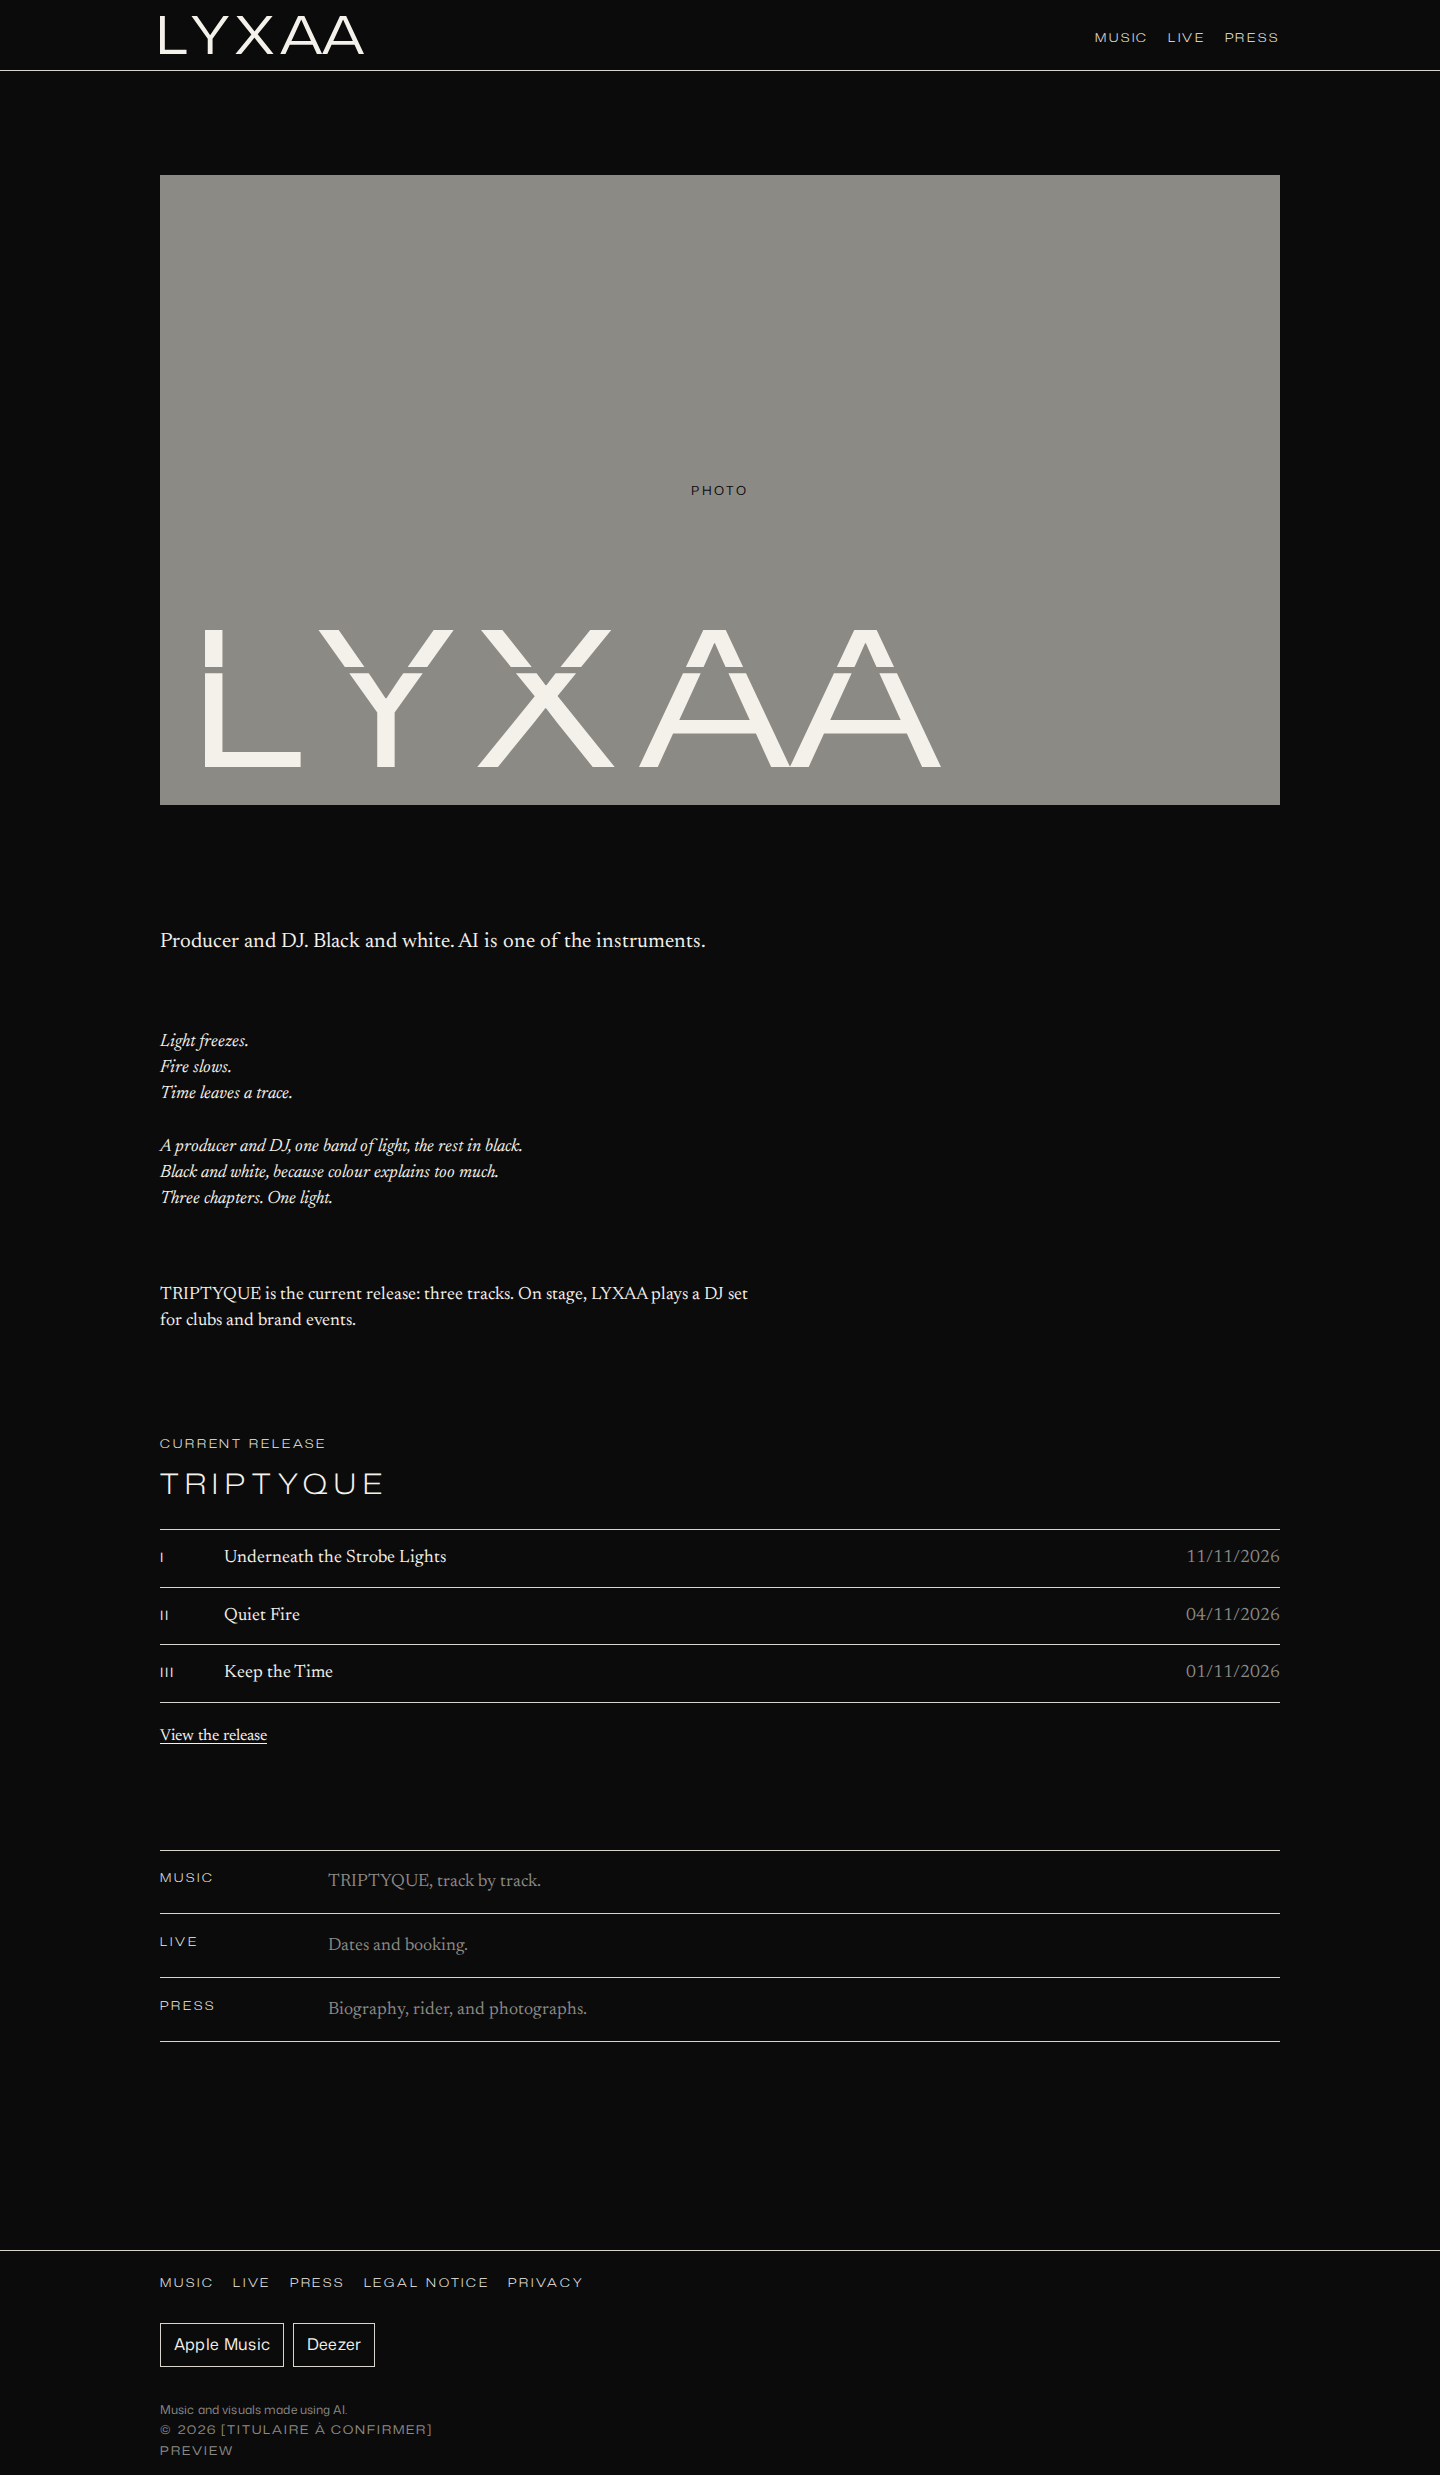
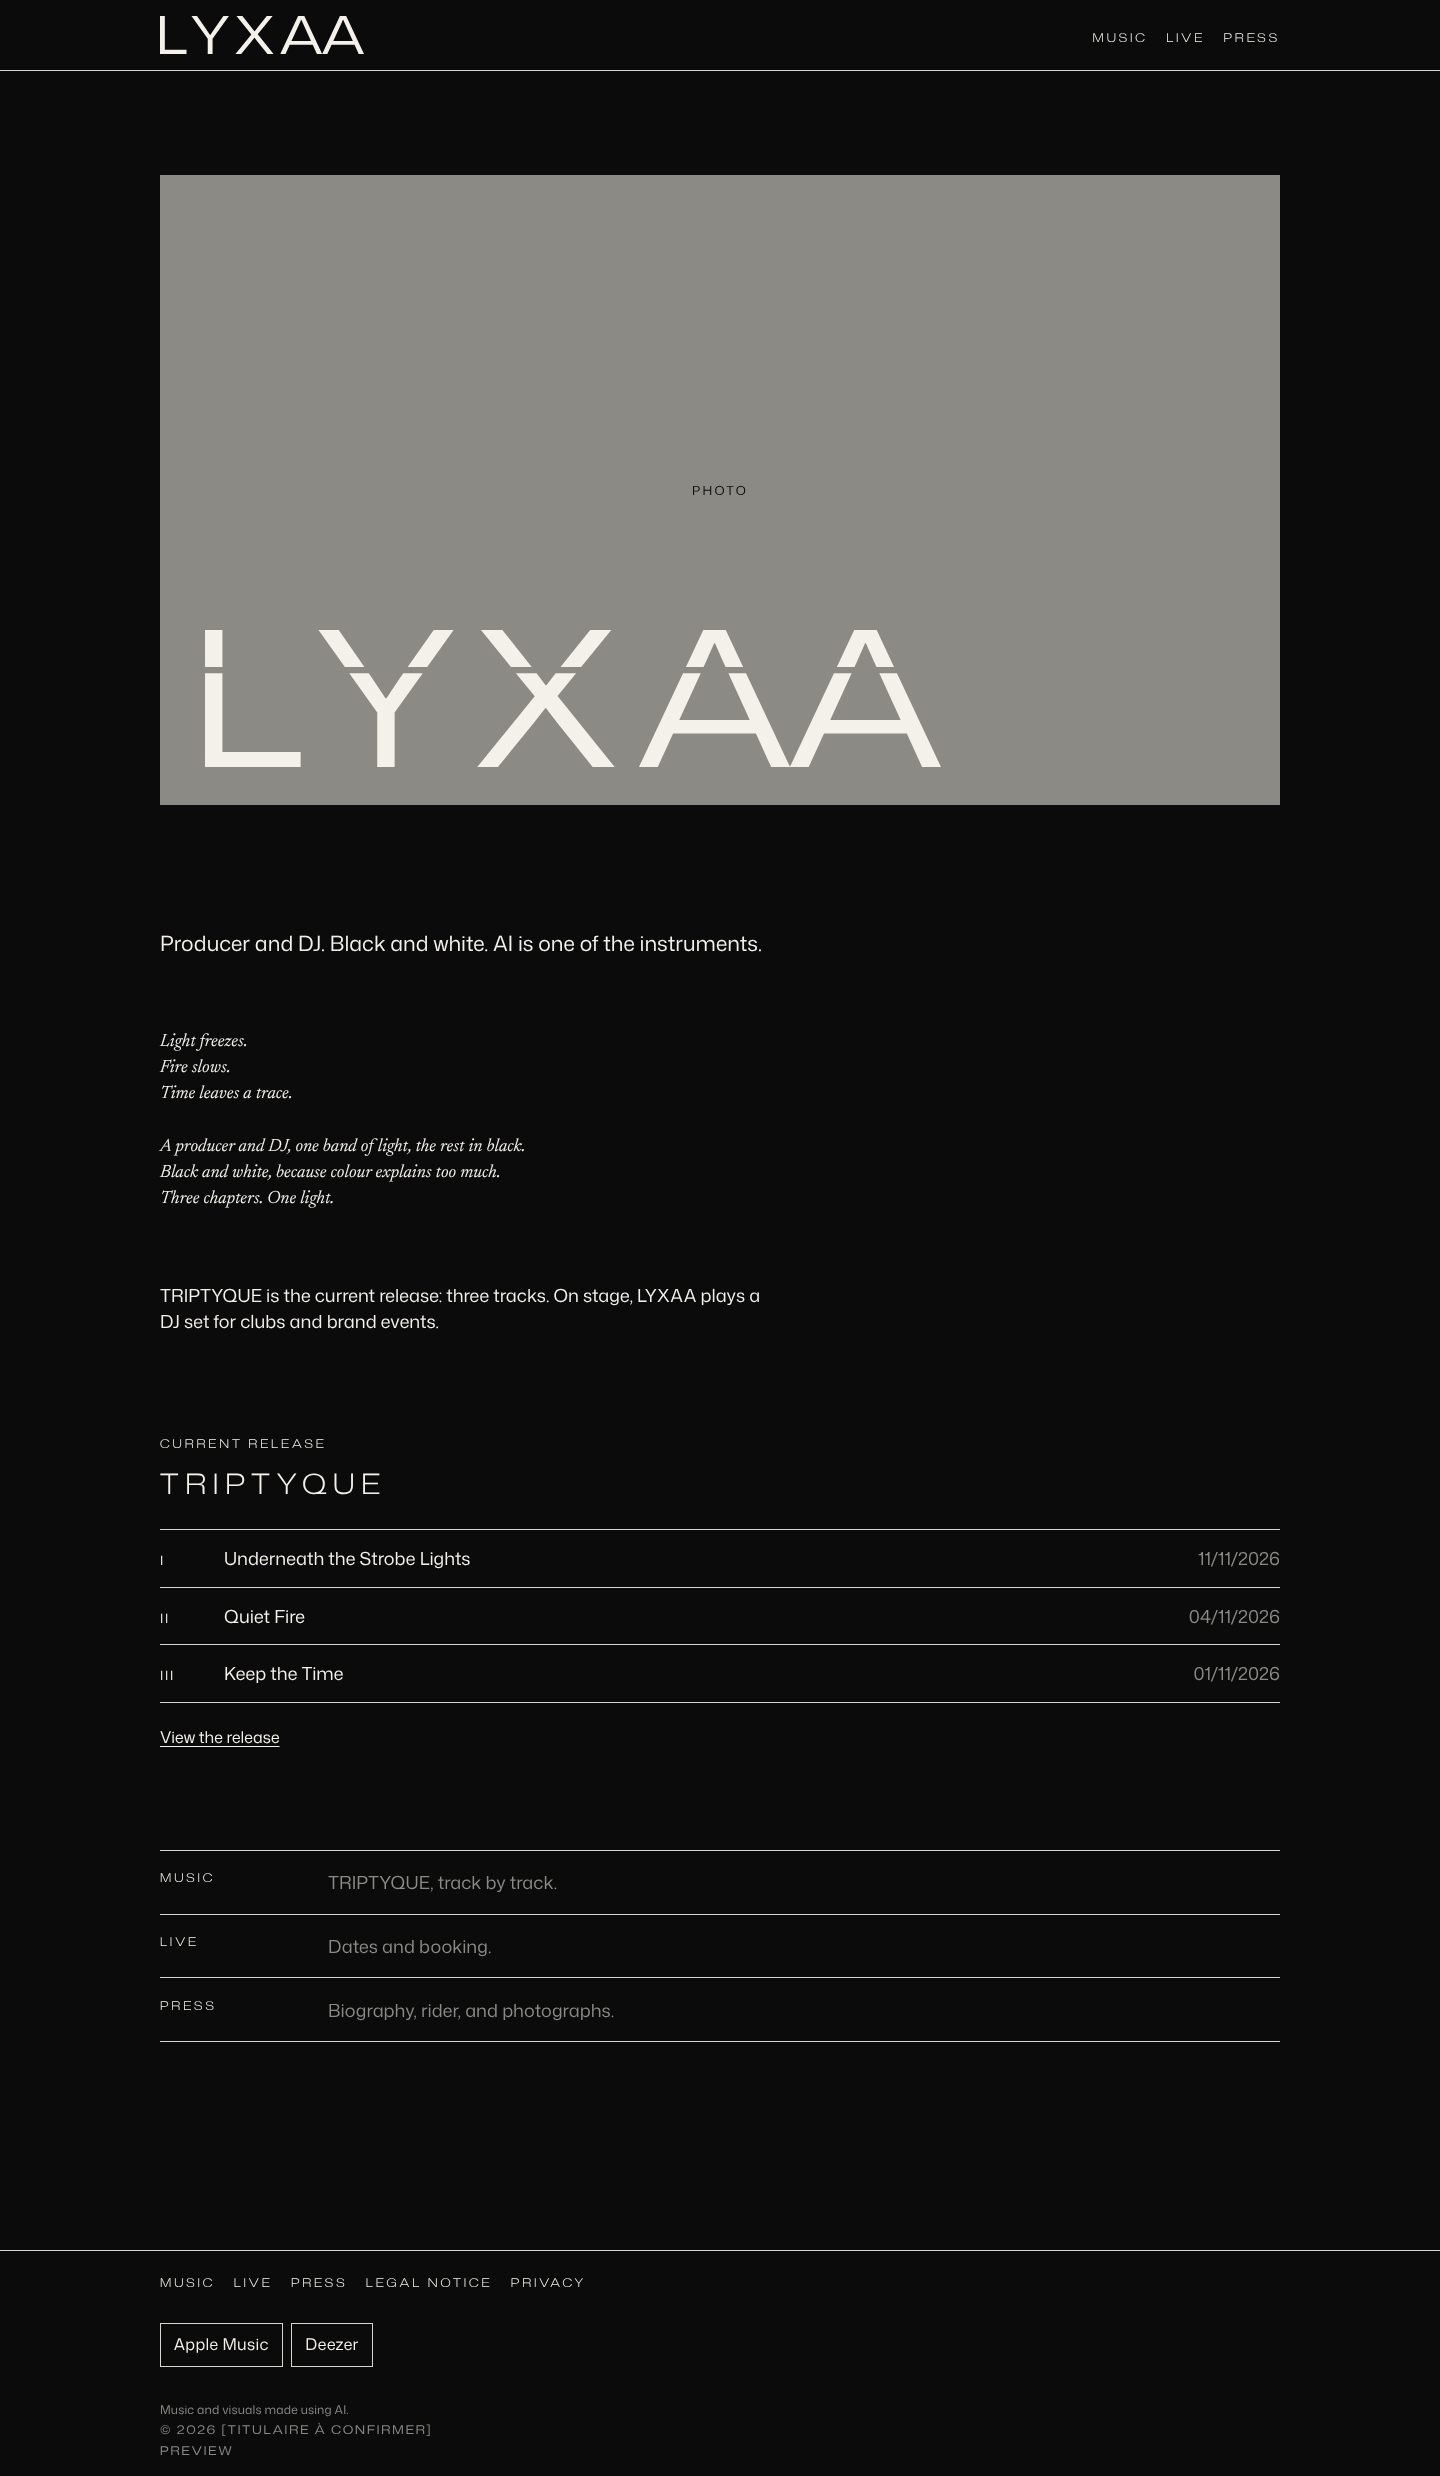
Set short text in Mona Sans and park three lines for 30/11.
Newsreader stays on the manifesto and the long press copy. Font smoothing is grayscale, and the pending sentences live in one file without a wording change.

diff --git a/src/app/globals.css b/src/app/globals.css
@@ -34,6 +34,8 @@
 
 html {
   color-scheme: dark;
+  -webkit-font-smoothing: antialiased;
+  -moz-osx-font-smoothing: grayscale;
 }
 
 body {
@@ -43,10 +45,13 @@ body {
   flex-direction: column;
   background: var(--color-background);
   color: var(--color-foreground);
-  font-family: var(--font-text);
+  font-family: var(--font-display);
+  font-weight: 400;
+  font-stretch: 100%;
   font-size: 1.0625rem;
-  font-optical-sizing: auto;
   line-height: 1.45;
+  -webkit-font-smoothing: antialiased;
+  -moz-osx-font-smoothing: grayscale;
 }
 
 @media (min-width: 800px) {
@@ -251,8 +256,10 @@ select,
 }
 
 .text-link {
-  font-family: var(--font-text);
+  font-family: var(--font-display);
   font-size: 1rem;
+  font-weight: 400;
+  font-stretch: 100%;
   letter-spacing: 0;
   text-transform: none;
   text-decoration: underline;
@@ -340,8 +347,10 @@ h3 {
 
 .lede {
   margin-top: 1.4rem;
+  font-family: var(--font-display);
   font-size: 1.0625rem;
   font-weight: 400;
+  font-stretch: 100%;
   line-height: 1.45;
   letter-spacing: 0;
   text-transform: none;
@@ -395,9 +404,19 @@ h3 {
   color: var(--color-secondary);
 }
 
+.placeholder-copy,
+.long {
+  font-family: var(--font-text);
+  font-weight: 400;
+  font-stretch: 100%;
+  font-style: normal;
+  letter-spacing: 0;
+  text-transform: none;
+  max-width: var(--measure);
+}
+
 .placeholder-copy {
   color: var(--color-secondary);
-  max-width: var(--measure);
 }
 
 .hero {
@@ -483,6 +502,25 @@ h3 {
 .page-index a:hover .index-label {
   text-decoration: underline;
   text-underline-offset: 0.2em;
+}
+
+.page-index .secondary,
+.rule-list,
+.home-column p {
+  font-family: var(--font-display);
+  font-weight: 400;
+  font-stretch: 100%;
+  letter-spacing: 0;
+  text-transform: none;
+}
+
+.home-column .manifesto {
+  font-family: var(--font-text);
+  font-style: italic;
+  font-weight: 400;
+  font-stretch: 100%;
+  letter-spacing: 0;
+  text-transform: none;
 }
 
 .index-label {

diff --git a/src/components/PressKit.tsx b/src/components/PressKit.tsx
@@ -92,7 +92,7 @@ export function PressKit({ copy, lang }: { copy: PressCopy; lang: "en" | "fr" })
 
       <section aria-labelledby="photos">
         <h2 id="photos">{copy.photosHeading}</h2>
-        <p className="measure" style={{ marginTop: "1rem" }}>
+        <p className="long" style={{ marginTop: "1rem" }}>
           {copy.photosNote}
         </p>
         <div className="photo-grid">
@@ -115,7 +115,7 @@ export function PressKit({ copy, lang }: { copy: PressCopy; lang: "en" | "fr" })
 
       <section aria-labelledby="press-booking">
         <h2 id="press-booking">{copy.bookingHeading}</h2>
-        <p className="measure" style={{ marginTop: "1rem" }}>
+        <p className="long" style={{ marginTop: "1rem" }}>
           {copy.booking}
         </p>
         <p style={{ marginTop: "1rem" }}>

diff --git a/src/content/lines.ts b/src/content/lines.ts
@@ -1,6 +1,8 @@
-/** Every public sentence that must stay exact lives in this file. */
+import { pendingBio, pendingManifestoLine } from "@/content/pending-copy";
 
-export const oneLinerEn = "Producer and DJ. Black and white. AI is one of the instruments.";
+/** Every public sentence that must stay exact lives in this file, except the three pending lines. */
+
+export const oneLinerEn = pendingBio;
 
 export const oneLinerFr = "Productrice et DJ. Noir et blanc. L'IA fait partie des instruments.";
 
@@ -23,7 +25,7 @@ export const manifestoBefore = [
 ] as const;
 
 export const manifestoAfter = [
-  "A producer and DJ, one band of light, the rest in black.",
+  pendingManifestoLine,
   "Black and white, because colour explains too much.",
 ] as const;
 

diff --git a/src/content/en.ts b/src/content/en.ts
@@ -1,4 +1,5 @@
 import type { PlatformKey } from "@/content/links";
+import { pendingStageLine } from "@/content/pending-copy";
 import { copyrightLine, noticeEn, oneLinerEn } from "@/content/lines";
 import { artistName } from "@/site.config";
 
@@ -47,7 +48,7 @@ export const en = {
   home: {
     description: oneLinerEn,
     tagline: oneLinerEn,
-    intro: `TRIPTYQUE is the current release: three tracks. On stage, ${artistName} plays a DJ set for clubs and brand events.`,
+    intro: `TRIPTYQUE is the current release: three tracks. ${pendingStageLine}`,
     releaseKicker: "Current release",
     viewRelease: "View the release",
     indexLabel: "Pages",

diff --git a/src/content/pending-copy.ts b/src/content/pending-copy.ts
@@ -1,0 +1,14 @@
+import { artistName } from "@/site.config";
+
+/**
+ * Pending Ventury's 30/11 decision.
+ * Replace these three strings then. Do not edit the wording before that.
+ */
+
+export const pendingBio =
+  "Producer and DJ. Black and white. AI is one of the instruments.";
+
+export const pendingManifestoLine =
+  "A producer and DJ, one band of light, the rest in black.";
+
+export const pendingStageLine = `On stage, ${artistName} plays a DJ set for clubs and brand events.`;

diff --git a/src/app/legal/page.tsx b/src/app/legal/page.tsx
@@ -13,7 +13,7 @@ export default function LegalPage() {
       <p className="kicker">{en.legal.kicker}</p>
       <h1>{en.legal.heading}</h1>
       <p className="lede">{en.legal.lede}</p>
-      <p className="measure" style={{ marginTop: "1.25rem" }}>
+      <p className="long" style={{ marginTop: "1.25rem" }}>
         {en.legal.body}
       </p>
       <p className="notice">{noticeEn}</p>

diff --git a/src/app/privacy/page.tsx b/src/app/privacy/page.tsx
@@ -12,7 +12,7 @@ export default function PrivacyPage() {
       <p className="kicker">{en.privacy.kicker}</p>
       <h1>{en.privacy.heading}</h1>
       <p className="lede">{en.privacy.lede}</p>
-      <p className="measure" style={{ marginTop: "1.25rem" }}>
+      <p className="long" style={{ marginTop: "1.25rem" }}>
         {en.privacy.body}
       </p>
     </div>
